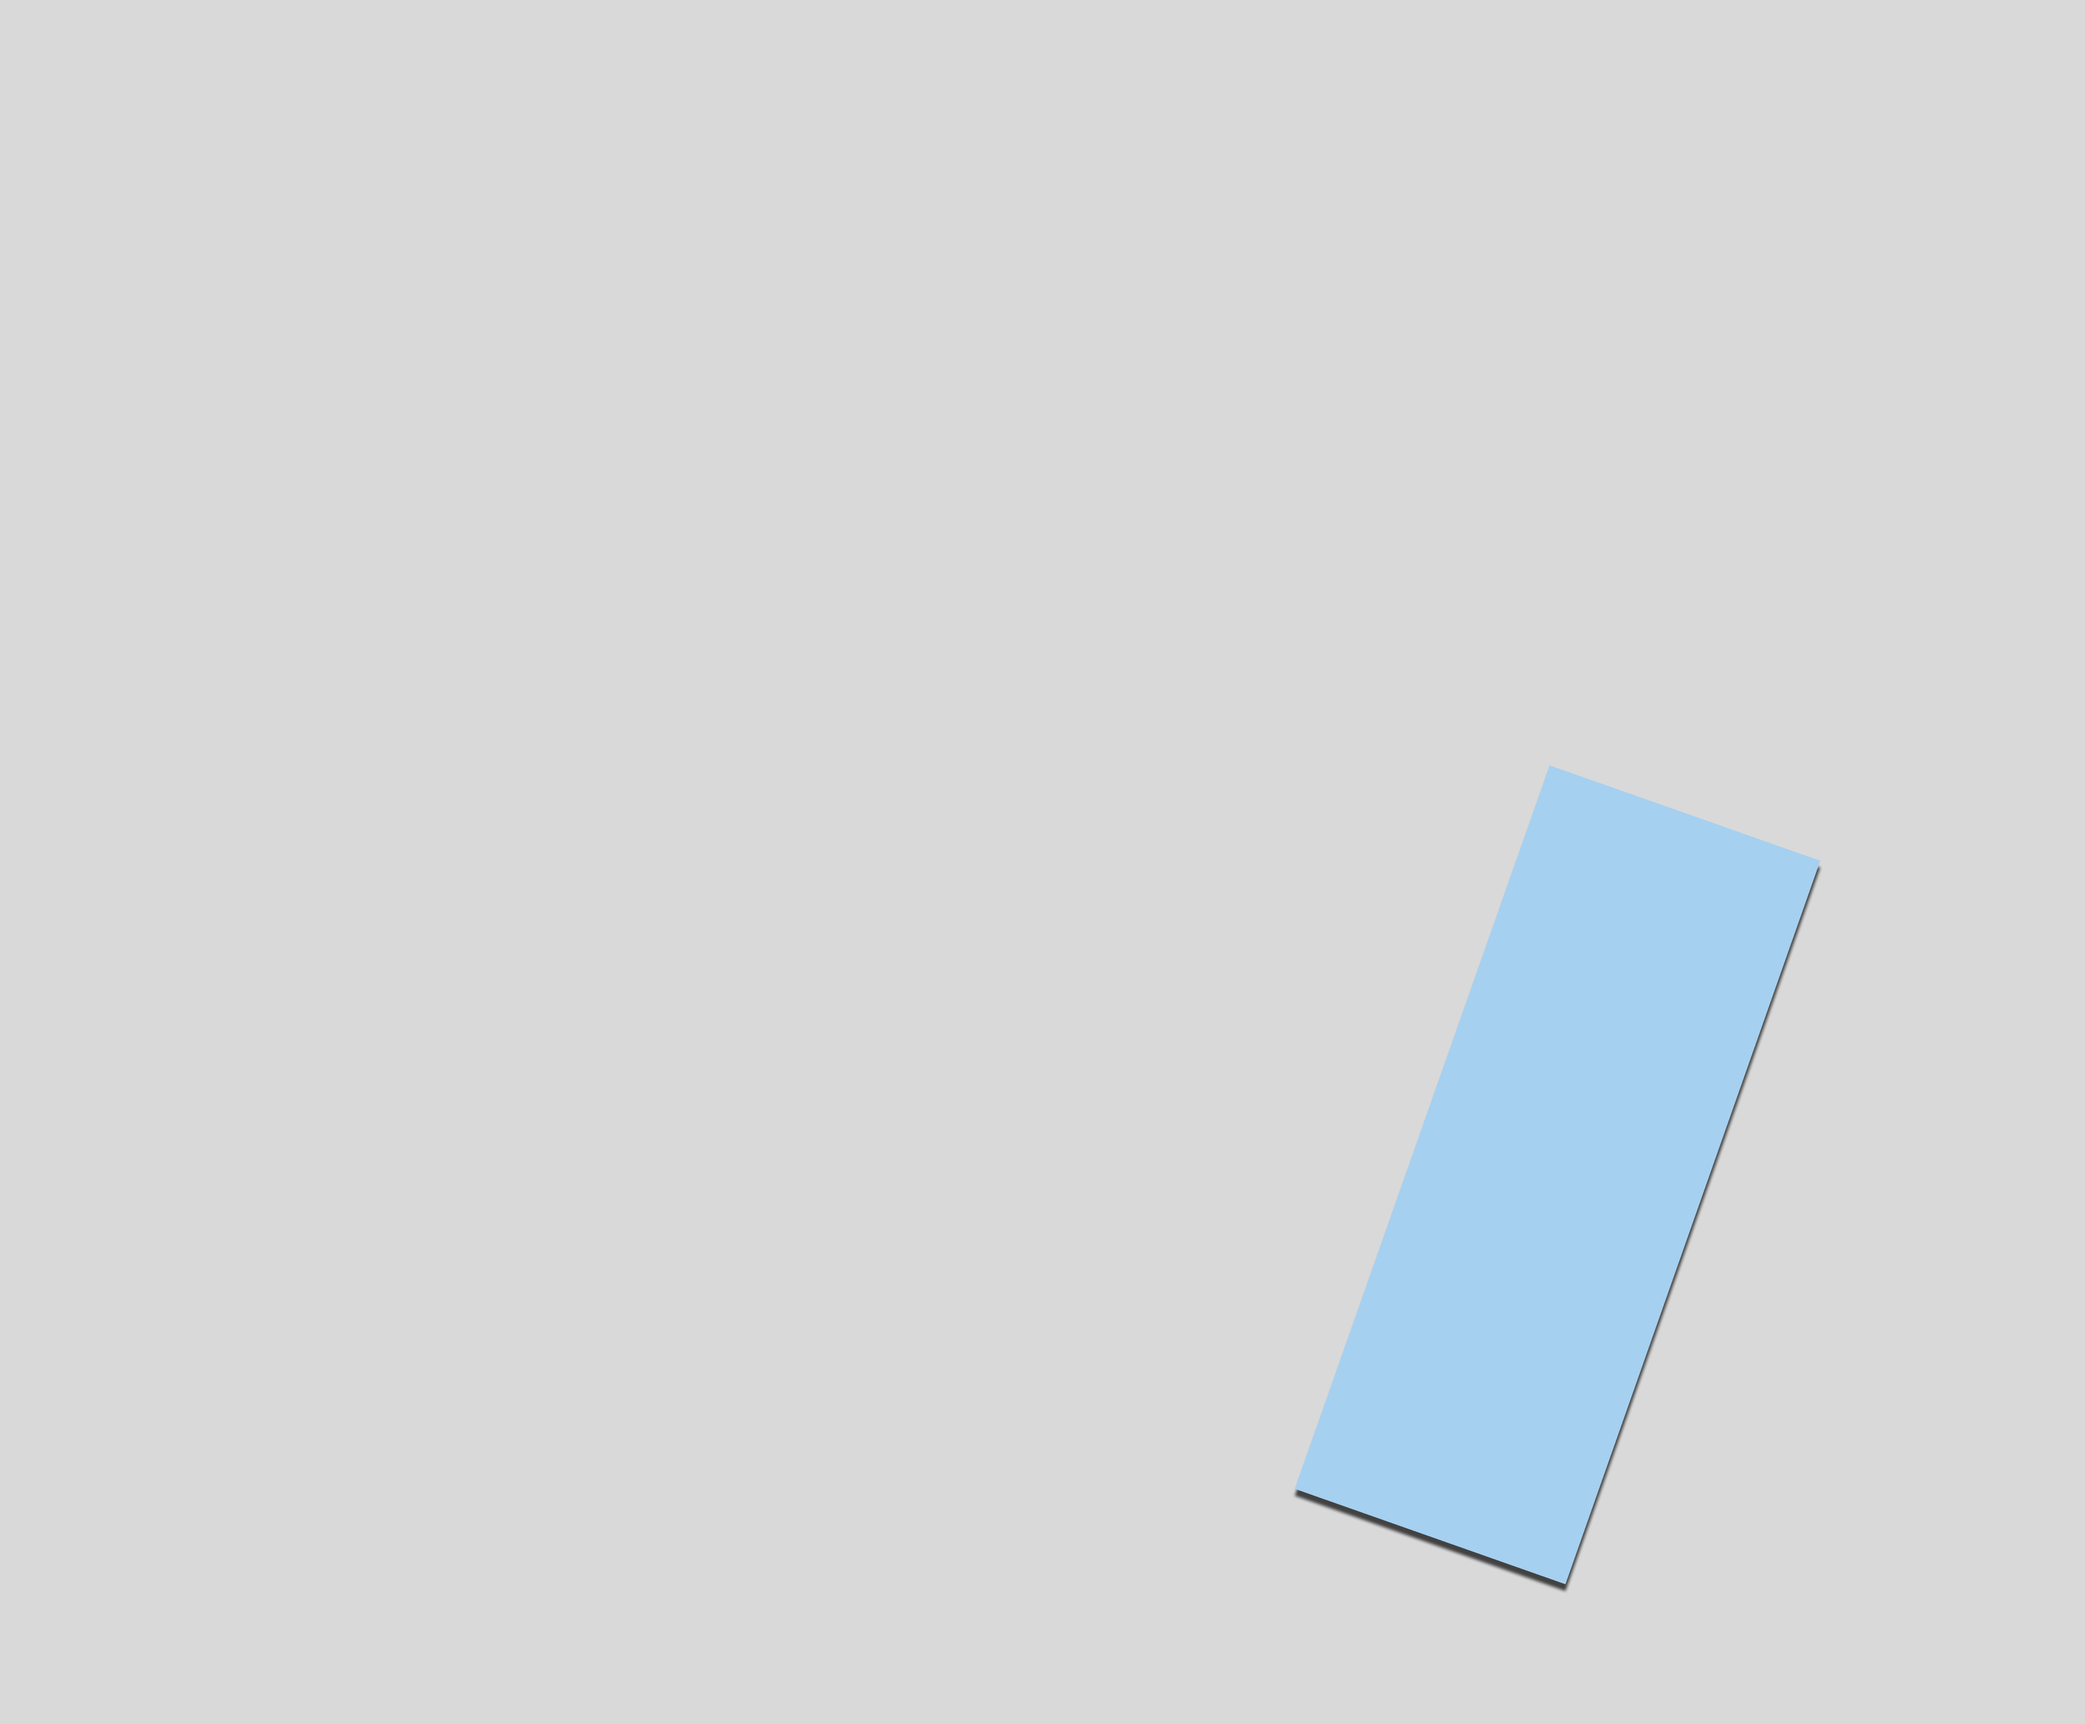
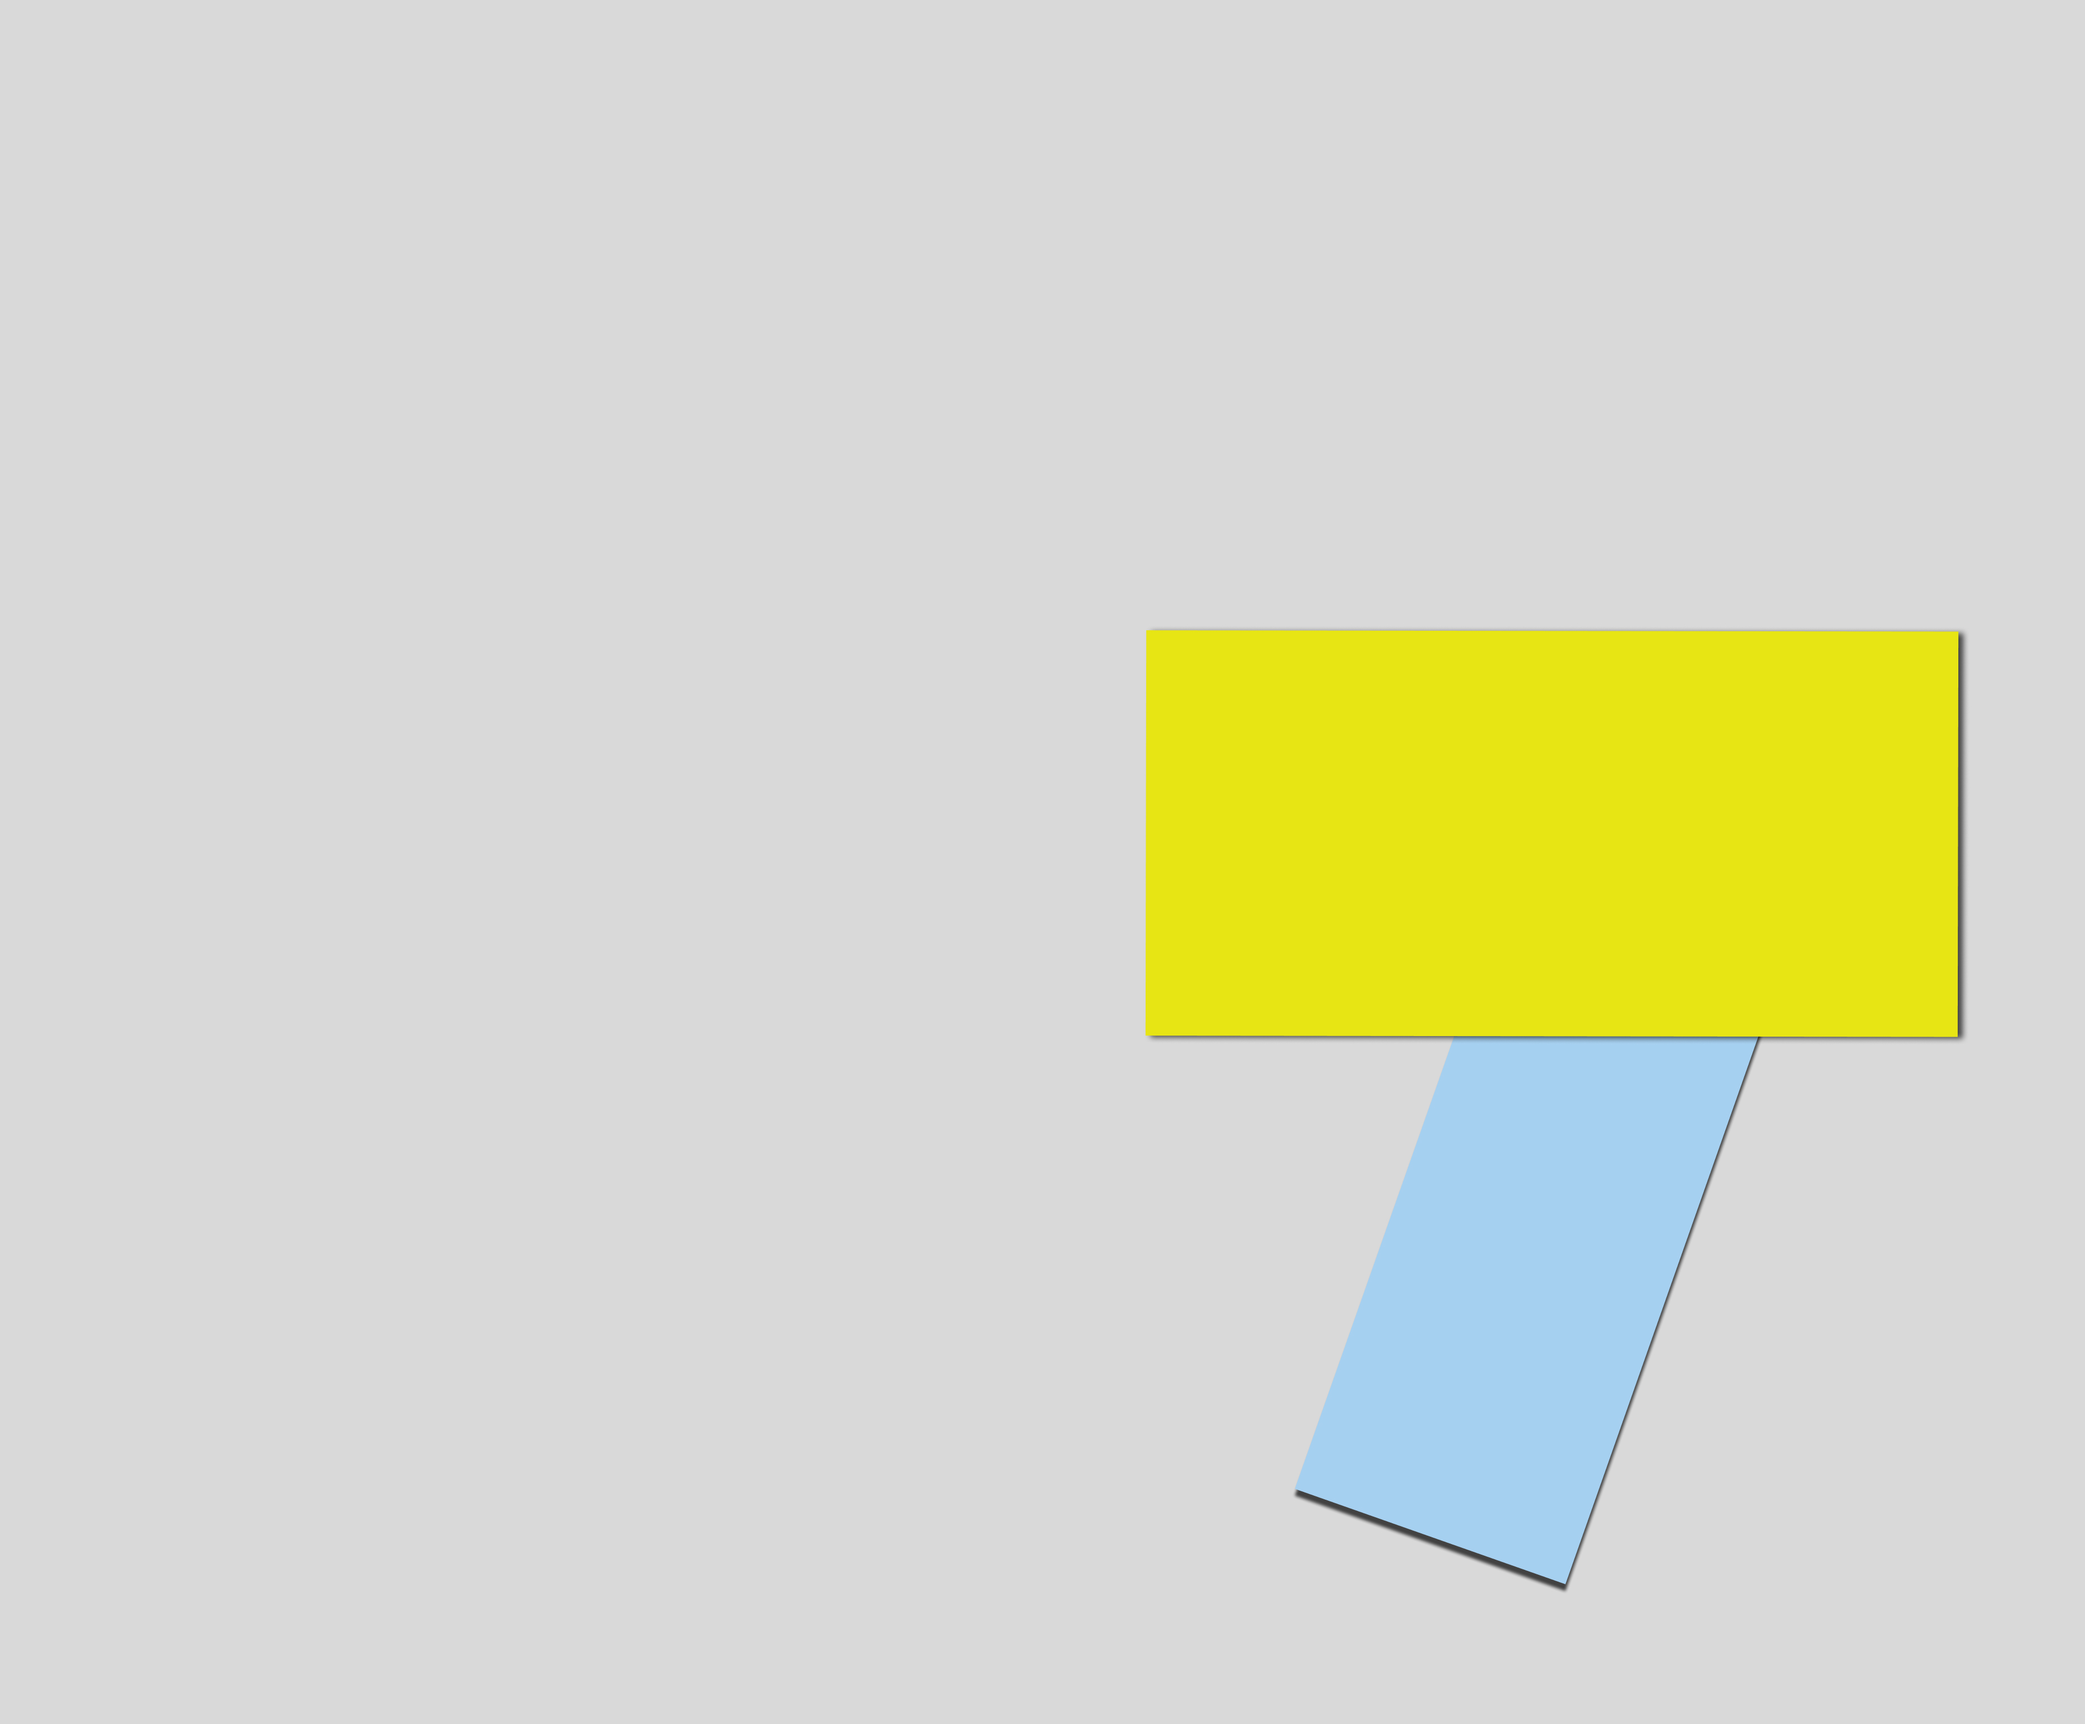
포스터 4 디자인 수정

Changed region(s): [[0.5301, 0.3434, 0.9667, 0.6244]]

diff --git a/capstone-poster/poster4/poster4.css b/capstone-poster/poster4/poster4.css
@@ -39,6 +39,8 @@ p, h1{
     background-size:100%;
     background-color: #0F9968;
     background-repeat: no-repeat;
+    box-shadow: 3px 1px 4px 0px rgba(0, 0, 0, 0.70);
+    z-index: 10;
 }
 
 .main-h1-1{
@@ -63,6 +65,7 @@ p, h1{
     background-color: #E7E514;
     font-weight: 700;    
     padding: 36px;
+    box-shadow: 3px 1px 4px 0px rgba(0, 0, 0, 0.70);
 }
 
 .poster4-main-p{
@@ -123,7 +126,7 @@ p, h1{
 
 @media (max-width: 619px) {
     #root{
-        background-image: none;
+        background-image: url('./Bg3.jpg');
     }
     .poster4-main{
         display: block;
@@ -131,15 +134,22 @@ p, h1{
     .poster4-main-left{
         width: 100%;
         height: auto;
+        padding: 22px;
+        padding-bottom: 15vh;
     }
     .poster4-main-right{
-        width: 100%;
+        margin-left: auto;
+        width: 80%;
     }
     .main-sub-1{
         display: none;
     }
     .poster4-main-p{
         padding: 20px 20px 0 20px;
+    }
+    .main-h1-2{
+        font-size: 62px;
+        text-align: right;
     }
     .main-sub-2{
         display: block;
@@ -153,6 +163,7 @@ p, h1{
     }
     .poster4-footer{
         justify-content: end;
+        padding: 30px 40px 30px 40px;
     }
 
 }

diff --git a/capstone-poster/poster4/poster4.html b/capstone-poster/poster4/poster4.html
@@ -21,11 +21,11 @@
                     <div class="poster4-main-yellow">
                         왜냐하면 대지는 우리에게 저항하고 있기 때문이다.
                     </div>
+                    <p class="main-sub-2">왜냐하면 대지는 우리에게 저항하고 있기 때문이다.</p>
                     <p class="poster4-main-p">《인간의 대지》는 생텍쥐페리가 비행사로 일하며 겪은 경험과 인간에 대한 성찰을 담은 자전적 에세이다. 비행 중 겪은 모험과 위기
                         속에서
                         인간의 나약함과 자연의 위대함을 체험하지만,
                         그 과정에서 인간의 강인함과 연대의 가치를 발견한다. 삶의 의미와 인간 존엄성을 탐구하는 철학적 작품이다.</p>
-                    <p class="main-sub-2">왜냐하면 대지는 우리에게 저항하고 있기 때문이다.</p>
                 </div>
             </main>
             <footer class="poster4-footer">
